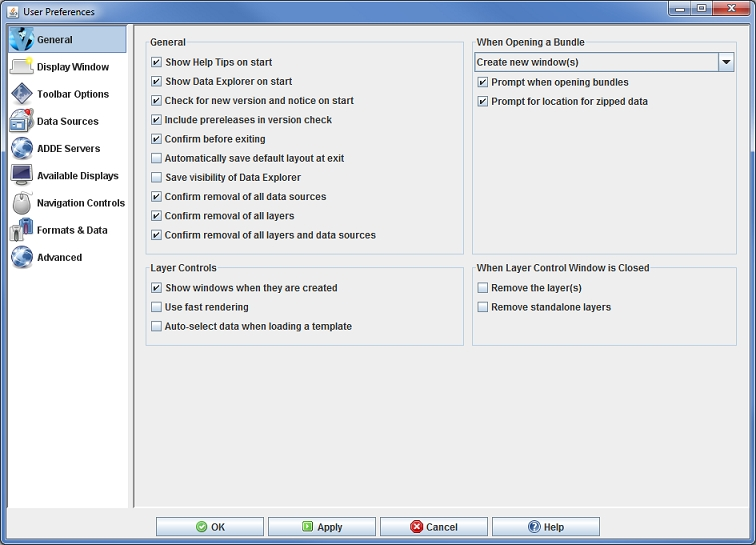
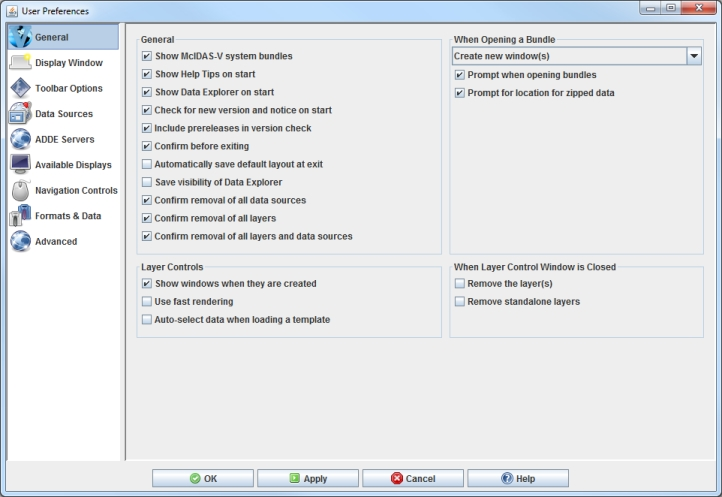
[0] Dreamweaver updates synced from web server.

Changed region(s): [[0.0, 0.0, 1.0, 1.0], [0.6094, 0.4829, 0.8532, 0.6338]]

diff --git a/docs/userguide/processed/tools/preferences/GeneralPreferences.html b/docs/userguide/processed/tools/preferences/GeneralPreferences.html
@@ -32,63 +32,49 @@ function setParentPage() { if (parent.setPage) parent.setPage('tools/preferences
 <div class="pagetitle">General Preferences</div>
 <p>The User Preferences window is accessed in the Main Display window through the <strong>Edit-&gt;Preferences</strong> menu. The <strong>General</strong> tab allows the user to configure many of the general settings within McIDAS-V. The image below represents the default settings for the <strong>General</strong> tab.</p>
 <a name="image1" id="image1"></a>
-<div class="images"><img src="../images/NewPictures/GeneralPrefs.jpg" width="756" height="545" alt="Image 1: General Preferences (Default)"><br>
+<div class="images"><img src="../images/NewPictures/GeneralPrefs.jpg" width="722" height="497" alt="Image 1: General Preferences (Default)"><br>
 <span class="caption">Image 1: General Preferences (Default)</span></div>
 <p></p>
 <div class="pagesubtitle">General</div>
 <ul class="propertylist">
-<a name="showhelptipdialogonstart" id="showhelptipdialogonstart"></a>
-<li class="propertylistitem"><b>Show Help Tips on start -</b> Displays the help tip window  on start up.</li>
-<a name="showdataexploreronstart" id="showdataexploreronstart"></a>
-<li class="propertylistitem"><b>Show Data Explorer on start -</b> Opens the Data Explorer window when McIDAS-V starts.</li>
-<a name="checkfornewversion" id="checkfornewversion"></a>
-<li class="propertylistitem"><b>Check for new version and notice on start -</b> Checks at startup to see if the current version of McIDAS-V is up to date and checks for important notices from SSEC.</li>
-<a name="confirmbeforeexiting" id="confirmbeforeexiting"></a>
-<li class="propertylistitem"><b>Include prereleases in version check -</b> Checks at startup to see if there is an updated prerelease version ready for download.</li>
+<li class="propertylistitem"><a name="systemBundles" id="systemBundles"></a><b>Shows McIDAS-V system bundles -</b> Includes the Current WX System Bundles on the Main Toolbar of the Main Display window. These are bundles that are designed to show some general features of McIDAS-V.</li>
+<li class="propertylistitem"><a name="showhelptipdialogonstart" id="showhelptipdialogonstart"></a><b>Show Help Tips on start -</b> Displays the help tip window  on start up.</li>
+<li class="propertylistitem"><a name="showdataexploreronstart" id="showdataexploreronstart"></a><b>Show Data Explorer on start -</b> Opens the Data Explorer window when McIDAS-V starts.</li>
+<li class="propertylistitem"><a name="checkfornewversion" id="checkfornewversion"></a><b>Check for new version and notice on start -</b> Checks at startup to see if the current version of McIDAS-V is up to date and checks for important notices from SSEC.</li>
+<li class="propertylistitem"><a name="confirmbeforeexiting" id="confirmbeforeexiting"></a><b>Include prereleases in version check -</b> Checks at startup to see if there is an updated prerelease version ready for download.</li>
 <li class="propertylistitem"><b>Confirm before exiting -</b> Asks the user to confirm before the exiting McIDAS-V.</li>
 <li class="propertylistitem"><b>Automatically save default layout at exit - </b>Stores the position of the Data Explorer for the next session.</li>
-<a name="confirmdataremoval" id="confirmdataremoval"></a>
-<li class="propertylistitem"><b>Save visibility of Data Explorer - </b>Stores the visibility of the Data Explorer for the next session.</li>
+<li class="propertylistitem"><a name="confirmdataremoval" id="confirmdataremoval"></a><b>Save visibility of Data Explorer - </b>Stores the visibility of the Data Explorer for the next session.</li>
 <li class="propertylistitem"><b>Confirm removal of all data sources -</b> Asks the user to confirm before removing all data sources.</li>
-<a name="confirmlayerremoval" id="confirmlayerremoval"></a>
-<li class="propertylistitem"><b>Confirm removal of all layers -</b> Asks the user to confirm before removing all layers.</li>
-<a name="confirmallremoval" id="confirmallremoval"></a>
-<li class="propertylistitem"><b>Confirm removal of all layers and data sources -</b> Asks the user to confirm before removing all layers and data sources.</li>
+<li class="propertylistitem"><a name="confirmlayerremoval" id="confirmlayerremoval"></a><b>Confirm removal of all layers -</b> Asks the user to confirm before removing all layers.</li>
+<li class="propertylistitem"><a name="confirmallremoval" id="confirmallremoval"></a><b>Confirm removal of all layers and data sources -</b> Asks the user to confirm before removing all layers and data sources.</li>
 </ul>
 <div class="pagesubtitle">When Opening a Bundle</div>
 <ul class="propertylist">
-<a name="promptusertoremovedisplaysanddata" id="promptusertoremovedisplaysanddata"></a>
-<li class="propertylistitem"><b>How to open bundle -</b> Determines how the bundle will open. The dropdown list contains four options
+<li class="propertylistitem"><a name="promptusertoremovedisplaysanddata" id="promptusertoremovedisplaysanddata"></a><b>How to open bundle -</b> Determines how the bundle will open. The dropdown list contains four options
   for opening bundles: Create new window(s), Merge with active tab(s), Add new tab(s)
   to current window, and Replace session. </li>
-<a name="removealldisplaysanddatasources" id="removealldisplaysanddatasources"></a>
-<li class="propertylistitem"><b>Prompt when opening bundles -</b> Opens a window asking
+<li class="propertylistitem"><a name="removealldisplaysanddatasources" id="removealldisplaysanddatasources"></a><b>Prompt when opening bundles -</b> Opens a window asking
   how to open the bundle, allowing for the user to choose each time
   a bundle is opened.</li> 
-  <a name="wheretoputzippedfiles" id="wheretoputzippedfiles"></a>
-<li class="propertylistitem"><b>Prompt for location for zipped data -</b> Allows for specifying
+<li class="propertylistitem"><a name="wheretoputzippedfiles" id="wheretoputzippedfiles"></a><b>Prompt for location for zipped data -</b> Allows for specifying
   a directory to place zipped data files, or choose to create a temporary directory.</li>
 </ul>
 <div class="pagesubtitle">Layer Controls</div>
 <ul class="propertylist">
-<a name="showwindowswhentheyarecreated" id="showwindowswhentheyarecreated"></a>
-<li class="propertylistitem"><b>Show windows when they are created -</b> Specifies that when a display is created its control window is automatically shown.</li>
-<a name="usefastrendering" id="usefastrendering"></a>
-<li class="propertylistitem"><b>Use fast rendering -</b> Uses fast rendering
+<li class="propertylistitem"><a name="showwindowswhentheyarecreated" id="showwindowswhentheyarecreated"></a><b>Show windows when they are created -</b> Specifies that when a display is created its control window is automatically shown.</li>
+<li class="propertylistitem"><a name="usefastrendering" id="usefastrendering"></a><b>Use fast rendering -</b> Uses fast rendering
   to display data layers (images, contours, etc.); see <a href="../../misc/PerformanceTuning.html">Performance
   Tuning</a>  for more information. A separate fast rendering option for
   map layers is available in the <a href="../../controls/MapDisplayControl.html">Map
   Controls</a>. </li>
-<a name="auto-selectdatawhenloadingatemplate" id="auto-selectdatawhenloadingatemplate"></a>
-<li class="propertylistitem"><b>Auto-select data when loading a template -</b> Auto-selects the data when loading in a display template bundle. A display template is created in the Layer Controls tab through the <a href="../../controls/LayerControls.html#template">Save Display as Favorite</a> menu item. Note that display templates don't store the data, so in order to load in a display template bundle, the data must first be added by the user. When this option is turned off, a Field Selector window will appear when loading a display template bundle that allows for the selection of a field to display. When the option is turned on, the same field that was displayed when the display template was created will be automatically selected and displayed. Note that this option does not impact a user when selecting a display template through the Displays panel of the Field Selector.</li>
+<li class="propertylistitem"><a name="auto-selectdatawhenloadingatemplate" id="auto-selectdatawhenloadingatemplate"></a><b>Auto-select data when loading a template -</b> Auto-selects the data when loading in a display template bundle. A display template is created in the Layer Controls tab through the <a href="../../controls/LayerControls.html#template">Save Display as Favorite</a> menu item. Note that display templates don't store the data, so in order to load in a display template bundle, the data must first be added by the user. When this option is turned off, a Field Selector window will appear when loading a display template bundle that allows for the selection of a field to display. When the option is turned on, the same field that was displayed when the display template was created will be automatically selected and displayed. Note that this option does not impact a user when selecting a display template through the Displays panel of the Field Selector.</li>
 </ul>
 <div class="pagesubtitle">When Layer Control Window is Closed</div>
 <ul class="propertylist">
-<a name="removedisplay" id="removedisplay"></a>
-<li class="propertylistitem"><b>Remove the layer(s) -</b> Specifies that when a display's window
+<li class="propertylistitem"><a name="removedisplay" id="removedisplay"></a><b>Remove the layer(s) -</b> Specifies that when a display's window
   is closed then the layer itself is removed.</li>
-<a name="removestandalonedisplays" id="removestandalonedisplays"></a>
-<li class="propertylistitem"><b>Remove standalone layers -</b> Removes the layer when the window is closed for a
+<li class="propertylistitem"><a name="removestandalonedisplays" id="removestandalonedisplays"></a><b>Remove standalone layers -</b> Removes the layer when the window is closed for a
   standalone layer (i.e., one that does not have a display component in the Main Display window).</li>
 </ul>
 <!-- InstanceEndEditable -->

diff --git a/docs/userguide/processed/ui/MainToolBar.html b/docs/userguide/processed/ui/MainToolBar.html
@@ -30,13 +30,21 @@ function setParentPage() { if (parent.setPage) parent.setPage('ui/MainToolBar.ht
 </div>
 <!-- InstanceBeginEditable name="MainContent" -->
 <div class="pagetitle">Main Toolbar</div>
-<p>Below the main menus you will find the main toolbar of the Main Display window. <a name="image1" id="image1"></a>
+<p>Below the main menus is the Main Toolbar of the Main Display window. <a name="image1" id="image1"></a>
 </p>
-<div class="images"><img src="images/MainToolBar.gif" alt="Image 1: Main Toolbar (Default)">
-<br>
+<div class="images"><img src="images/MainToolBar.gif" width="557" height="37" alt="Image 1: Main Toolbar (Default)"><br>
 <span class="caption">Image 1: Main Toolbar (Default)</span></div>
 <p>Many of the more commonly used features of McIDAS-V can be accessed here. Hold your mouse over a toolbar button to get a popup tip on what that button does. The main toolbar is user configurable. Right-click on the toolbar to change the icon sizes and select "Customize..." to open the User Preferences' <strong><a href="../tools/preferences/ToolbarPreferences.html">Toolbar Options</a></strong> tab where you can add, remove, and change the position of the buttons in the toolbar.</p>
-<p>You can also undock the main toolbar from the Main Display window by left-clicking and dragging the textured area on the left side of the toolbar. This will place the main toolbar in its own window. To dock the toolbar back into the Main Display window, click the 'x' in the toolbar's window.</p>
+<p>The <img src="images/CurrentWX.gif" width="97" height="27" alt="Current WX Button" align=absmiddle> button contains a variety of system bundles to demonstrate various functionalities of McIDAS-V. This button appears on the Main Toolbar by default, and can be removed through either the <a href="../tools/preferences/GeneralPreferences.html#systemBundles"><strong>General</strong></a> tab of the User Preferences or through the <a href="../Bundles.html#image3">Local Favorite Bundles Manager</a>. Clicking on this button opens a dropdown with several sample real-time bundles:</p>
+<ul class="propertylist">
+  <li class="propertylistitem"><b>4 Panel GFS -</b> Creates a 4-panel forecasting chart of GFS 80km CONUS data from the Unidata THREDDS server.</li>
+  <li class="propertylistitem"><b>Global Temps and Winds -</b> Creates a globe display of GFS 2.5 degree global data from the Unidata Thredds server. Displayed at the surface is temperature data, and there is an 3D isosurface of wind speed at 45 m/s.</li>
+  <li class="propertylistitem"><b>Precipitable Water and Winds -</b> Creates a display of GFS 80km CONUS data from the Unidata THREDDS server. At the surface is precipitable water drawn over topography. There is also a cross section of wind speed, an isosurface of wind speed at 40 m/s, and flow vectors at 250hPa.</li>
+  <li class="propertylistitem"><b>Surface Observations -</b> Creates a Color-Filled Contour Plan View display of surface temperatures overlaid with a plot of METARs. This data is displayed from point data from the adde.ucar.edu/RTPTSRC server/dataset with the SFCHOURLY Data Type.</li>
+  <li class="propertylistitem"><b>Satellite and Surface Temps -</b> Creates a display of GOES-East 10.7um Temperature data from the adde.ucar.edu/RTIMAGES server/dataset with the GE-IR Image Type. This satellite data is overlaid with surface temperatures, colored by temperature, from the adde.ucar.edu/RTPTSRC server/dataset with the SFCHOURLY Data Type.</li>
+</ul>
+<p>Along with the <strong>Current WX </strong>real-time bundles, there are also a variety of archive bundles that can be added to the Main Toolbar through the <a href="../tools/Plugins.html">Plugin Manager</a>. Under the <strong>Sample Bundles</strong> tree in the Plugin Manager, there are 5 separate plugins for bundles that demonstrate many of the same features as the real-time bundles. Once these plugins are added and McIDAS-V is restarted, a toolbar button called <strong>Archive WX</strong> will be added to the toolbar. This button behaves similarly to the <strong>Current WX</strong> button, where clicking <strong>Archive WX</strong> opens a dropdown containing any of the sample bundle plugins that were added. Once these Archive WX bundles are added, they can be removed only through the Plugin Manager.</p>
+<p>The Main Toolbar can be undocked from the Main Display window by left-clicking and dragging the textured area on the left side of the toolbar. This will place the Main Toolbar in its own window. To dock the toolbar back into the Main Display window, click the 'x' in the toolbar's window.</p>
 <!-- InstanceEndEditable -->
 <div class="BottomTitleNav">
   <hr align="center">

diff --git a/docs/userguide/processed/Bundles.html b/docs/userguide/processed/Bundles.html
@@ -110,9 +110,10 @@ saved in the .jnlp file.-->
   you to reorganize the categories and favorites by drag-and-drop, or right
   click on a favorite or a category to delete it, export it, etc.:</p>
 <a name="image3" id="image3"></a>
-<div class="images"><img src="images/FavoritesManager.gif" alt="Image 3: Local Favorites Bundles Manager"> <br>
+<div class="images"><img src="images/FavoritesManager.gif" width="307" height="443" alt="Image 3: Local Favorite Bundles Manager"><br>
   <span class="caption">Image 3: Local Favorite Bundles Manager</span></div>
 <p>Once a bundle has been saved as a favorite, it can be set as your default bundle that will load automatically when you start McIDAS-V. You can set a default bundle in the <strong><a href="tools/preferences/AdvancedPreferences.html#defaultbundle">Advanced</a></strong> tab of the User Preferences window. Note that after saving a favorite bundle, you must restart McIDAS-V before the bundle will be visible in the User Preferences window.</p>
+<p>The <strong>Show McIDAS-V system bundles</strong> checkbox at the bottom of the window sets the visibility of the <strong>Current WX</strong> bundles on the <a href="ui/MainToolBar.html">Main Toolbar</a>. This option is turned on by default. The visibility of the system bundles can also be set in the <a href="tools/preferences/GeneralPreferences.html#systemBundles"><strong>General</strong></a> tab of the User Preferences window.</p>
 <div class="pagesubtitle">Opening a Bundle</div>
 <a name="open" id="open"></a>
 <p>Use the <strong>File-&gt;Open File</strong> menu item in the Main Display window to open a bundle. When loading
